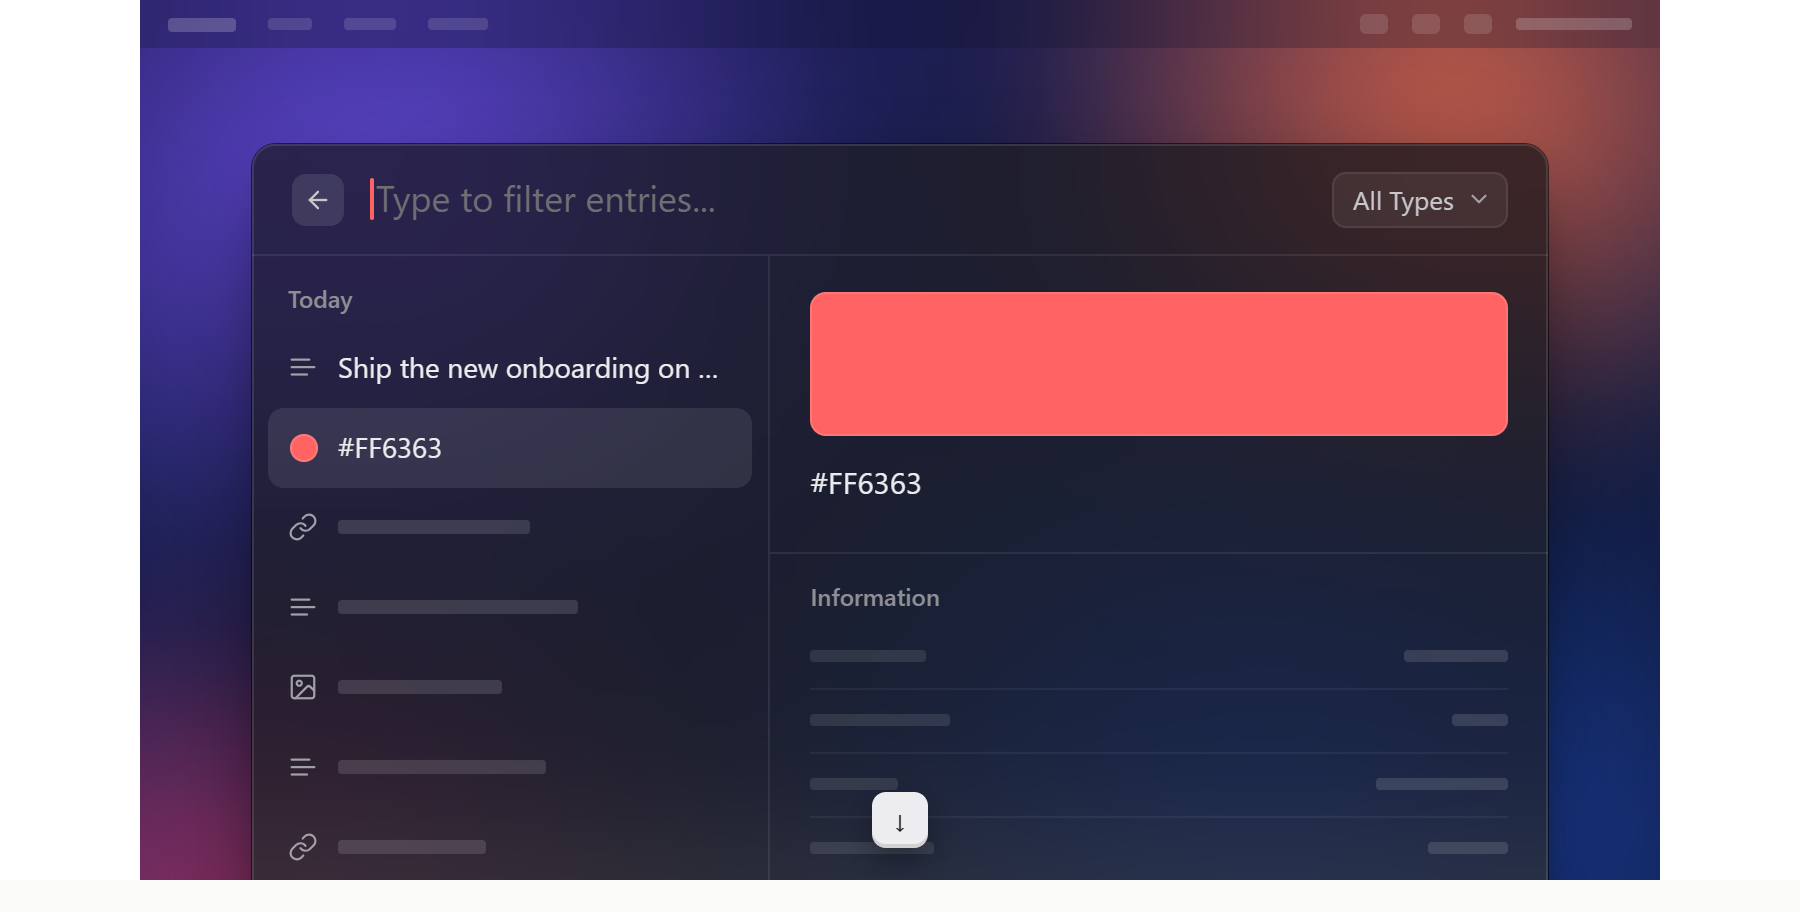
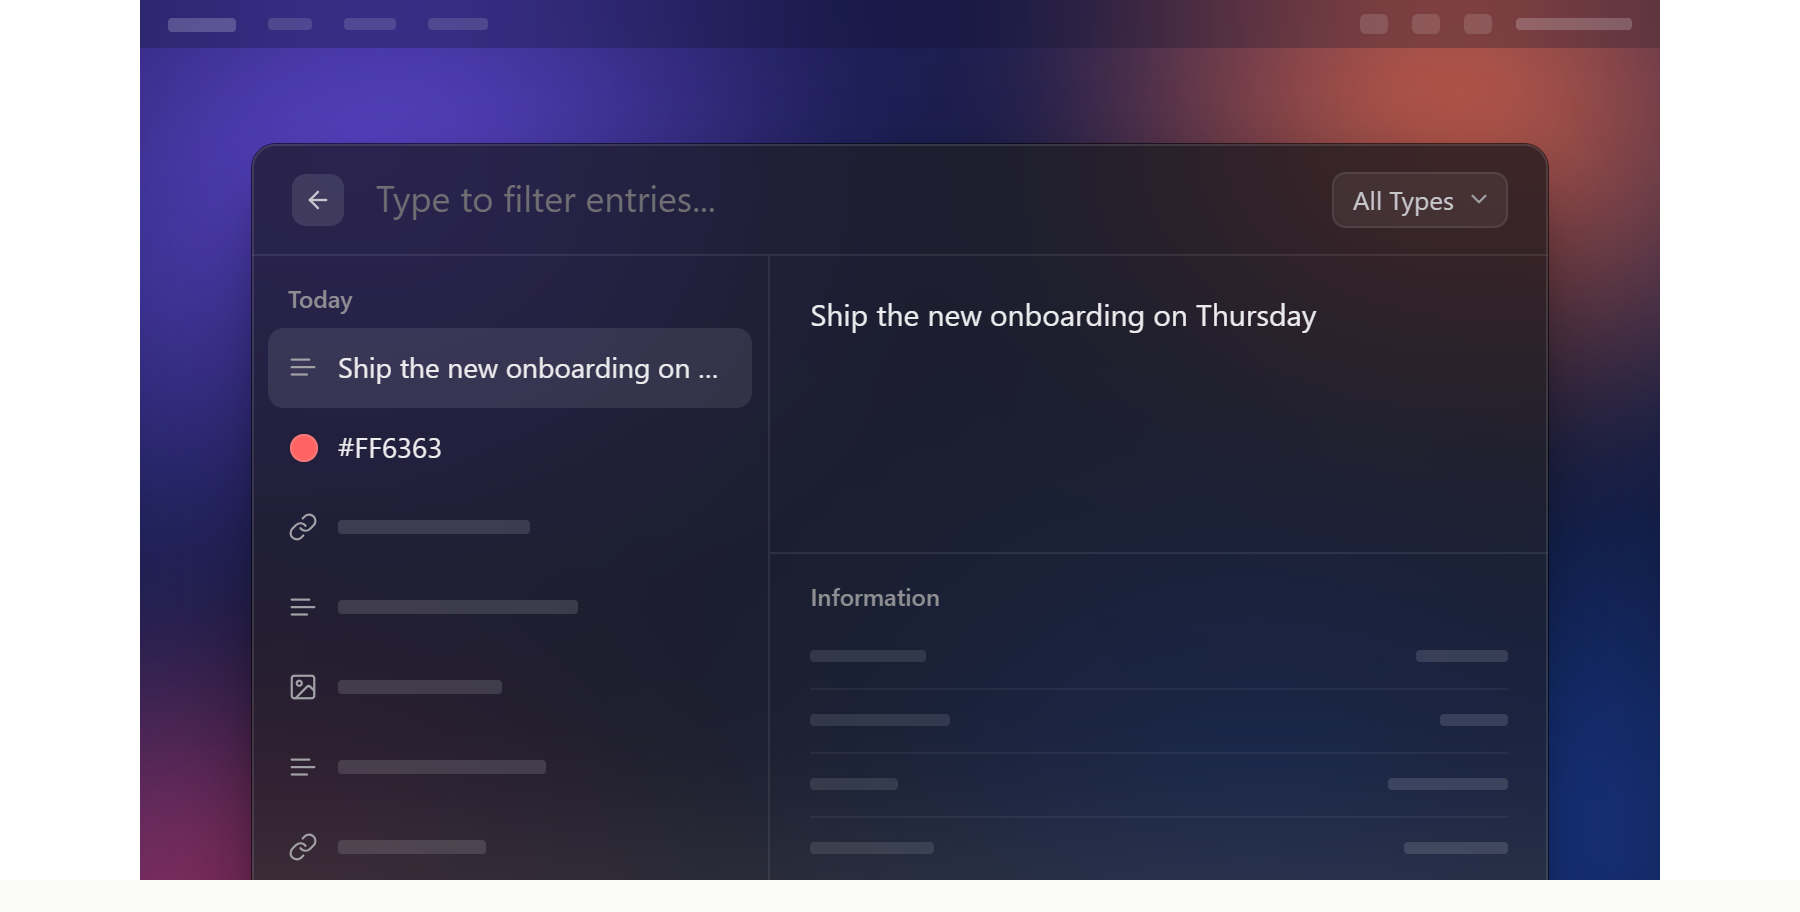
fix: hold raycast's pre-down selection at the down mark
- reference mark catches Ship selected; holding that frame before arrow-down gives 30.6 dB / 0.21% pass

- finder undo rechecked on final bundle: 49.7 dB / 0.00%

diff --git a/apps/web/src/scenes/raycast.svelte b/apps/web/src/scenes/raycast.svelte
@@ -54,17 +54,20 @@
     a.mark('type')
     await a.type('query', 'clip', { interval: 150 })
     await a.wait(900)
+    a.mark('open')
     await a.key('enter')
     await a.set({ view: 'clip', sel: 0 })
-    a.mark('open')
     await a.wait(2200)
+    a.mark('down')
+    // The reference mark catches the selection before the down step; hold
+    // that frame long enough for the recorder's mark capture, then move.
+    await a.wait(1100)
     await a.key('down')
     await a.set({ sel: 1 })
-    a.mark('down')
     await a.wait(2400)
+    a.mark('back')
     await a.key('esc')
     await a.set({ view: 'root', query: '', sel: 0 })
-    a.mark('back')
     await a.wait(1400)
   }
 </script>
